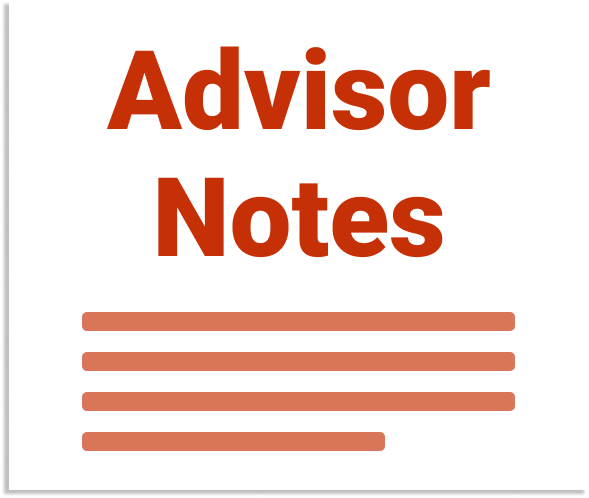
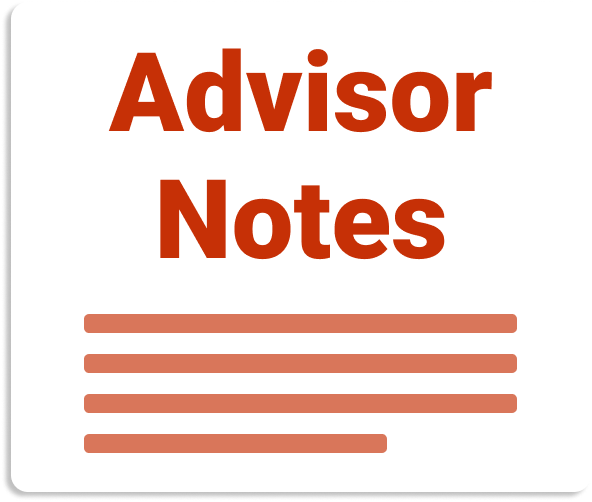
Checkpoint before assistant change: Update image overlays when tapped and maintain position while scrolling
Implements tap-to-replace functionality for Q1/Q2 images with Q1_notap/Q2_notap, and adds drop-shadow CSS class.

Replit-Commit-Author: Assistant

diff --git a/public/out.css b/public/out.css
@@ -1159,6 +1159,11 @@ video {
   filter: var(--tw-blur) var(--tw-brightness) var(--tw-contrast) var(--tw-grayscale) var(--tw-hue-rotate) var(--tw-invert) var(--tw-saturate) var(--tw-sepia) var(--tw-drop-shadow);
 }
 
+.drop-shadow {
+  --tw-drop-shadow: drop-shadow(0 1px 2px rgb(0 0 0 / 0.1)) drop-shadow(0 1px 1px rgb(0 0 0 / 0.06));
+  filter: var(--tw-blur) var(--tw-brightness) var(--tw-contrast) var(--tw-grayscale) var(--tw-hue-rotate) var(--tw-invert) var(--tw-saturate) var(--tw-sepia) var(--tw-drop-shadow);
+}
+
 .grayscale {
   --tw-grayscale: grayscale(100%);
   filter: var(--tw-blur) var(--tw-brightness) var(--tw-contrast) var(--tw-grayscale) var(--tw-hue-rotate) var(--tw-invert) var(--tw-saturate) var(--tw-sepia) var(--tw-drop-shadow);

diff --git a/public/style.css b/public/style.css
@@ -1159,6 +1159,11 @@ video {
   filter: var(--tw-blur) var(--tw-brightness) var(--tw-contrast) var(--tw-grayscale) var(--tw-hue-rotate) var(--tw-invert) var(--tw-saturate) var(--tw-sepia) var(--tw-drop-shadow);
 }
 
+.drop-shadow {
+  --tw-drop-shadow: drop-shadow(0 1px 2px rgb(0 0 0 / 0.1)) drop-shadow(0 1px 1px rgb(0 0 0 / 0.06));
+  filter: var(--tw-blur) var(--tw-brightness) var(--tw-contrast) var(--tw-grayscale) var(--tw-hue-rotate) var(--tw-invert) var(--tw-saturate) var(--tw-sepia) var(--tw-drop-shadow);
+}
+
 .grayscale {
   --tw-grayscale: grayscale(100%);
   filter: var(--tw-blur) var(--tw-brightness) var(--tw-contrast) var(--tw-grayscale) var(--tw-hue-rotate) var(--tw-invert) var(--tw-saturate) var(--tw-sepia) var(--tw-drop-shadow);
